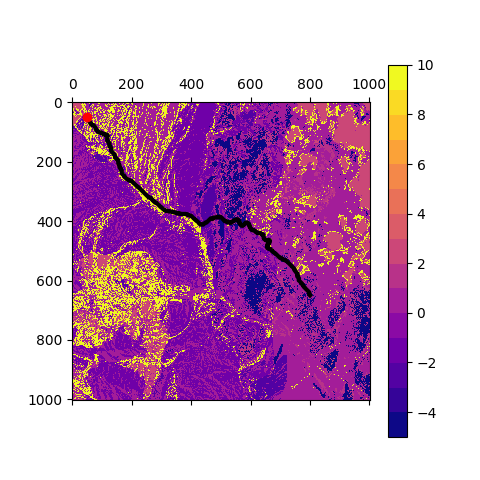
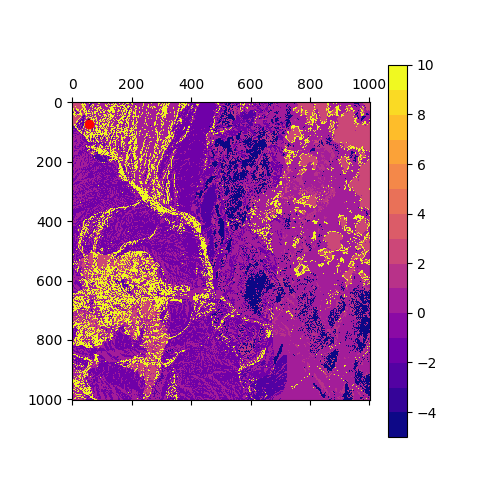
updated reward calculations

diff --git a/src/simulator.py b/src/simulator.py
@@ -45,11 +45,11 @@ class simulation(QDialog):
         #A* Params
         # initialization of the 2D grid environment
         # start coordinate
-        self.sx = 50.0       # [m]
-        self.sy = 50.0       # [m]
+        self.sx = 57.0       # [m]
+        self.sy = 65.0       # [m]
         # goal coordinate
-        self.gx = 150.0      # [m]
-        self.gy = 200.0     # [m]
+        self.gx = 58.0      # [m]
+        self.gy = 80.0     # [m]
         # grid property
         self.greso = 1.0     # [m]
         # robot size (assume the robot size is 2*2 meters)
@@ -71,7 +71,7 @@ class simulation(QDialog):
         self.rystarhalf = np.loadtxt('rx_stars_secondhalf')
         self.rxstarhalf = np.loadtxt('ry_stars_secondhalf')
 
-        self.i = 31
+        self.i = 0
         self.j = 0
         self.passid = 0
 
@@ -83,6 +83,8 @@ class simulation(QDialog):
         self.actualReward = 0.0
 
         self.graphics()
+
+
 
         self.label_reward.setText(str(0))
 
@@ -140,6 +142,10 @@ class simulation(QDialog):
         print("<<Generating Path>>")
         self.rx, self.ry, self.costMatrix, self.accumReward = a_star_planning(self.sx, self.sy, self.gx, self.gy, self.rewardMatrix, self.greso, self.rs, self.xwidth, self.minx, self.miny, self.maxx, self.maxy)
         #time.sleep(10)
+
+        #self.ry = np.loadtxt('init_pathy.txt')
+        #self.rx = np.loadtxt('init_pathx.txt')
+
         print("<<Path Generated>>")
 
         self.label_reward.setText(str(self.accumReward))
@@ -173,6 +179,9 @@ class simulation(QDialog):
         self.graphicsView_2.setScene(scene_2)
         print("<<loading path map finished>>")
 
+        self.rx = np.flip(self.rx)
+        self.ry = np.flip(self.ry)
+
         np.savetxt("init_pathx.txt",self.rx,delimiter=',')
         np.savetxt("init_pathy.txt",self.ry,delimiter=',')
 
@@ -202,11 +211,12 @@ class simulation(QDialog):
         mat = plt.matshow(self.rewardMatrix, cmap=cmap, vmin=vmin, vmax=10)
 
 
-        if ((self.i - 5) > 0):
+        if ((self.i + 1) < self.rx.size):
 
-            self.i = self.i - 5
+            self.i = self.i + 1
             self.igx = self.rx[self.i]
             self.igy = self.ry[self.i]
+
 
         else:
 
@@ -223,16 +233,12 @@ class simulation(QDialog):
 
 
         print("Start Point")
-        print("x =")
-        print(self.sx)
-        print("y =")
-        print(self.sy)
+        print("x =",self.sx)
+        print("y =",self.sy)
 
         print("Goal Point")
-        print("x =")
-        print(self.igx)
-        print("y =")
-        print(self.igy)
+        print("x =",self.igx)
+        print("y =",self.igy)
 
         self.widget.setRoverPosition(self.sx,self.sy)
 
@@ -241,6 +247,8 @@ class simulation(QDialog):
         self.actualReward = self.actualReward + laccumReward;
 
         self.label_actual_reward.setText(str(self.actualReward))
+
+        print("Reward Collected =",laccumReward)
 
         # self.label_actual_reward.setText("TBD")
 
